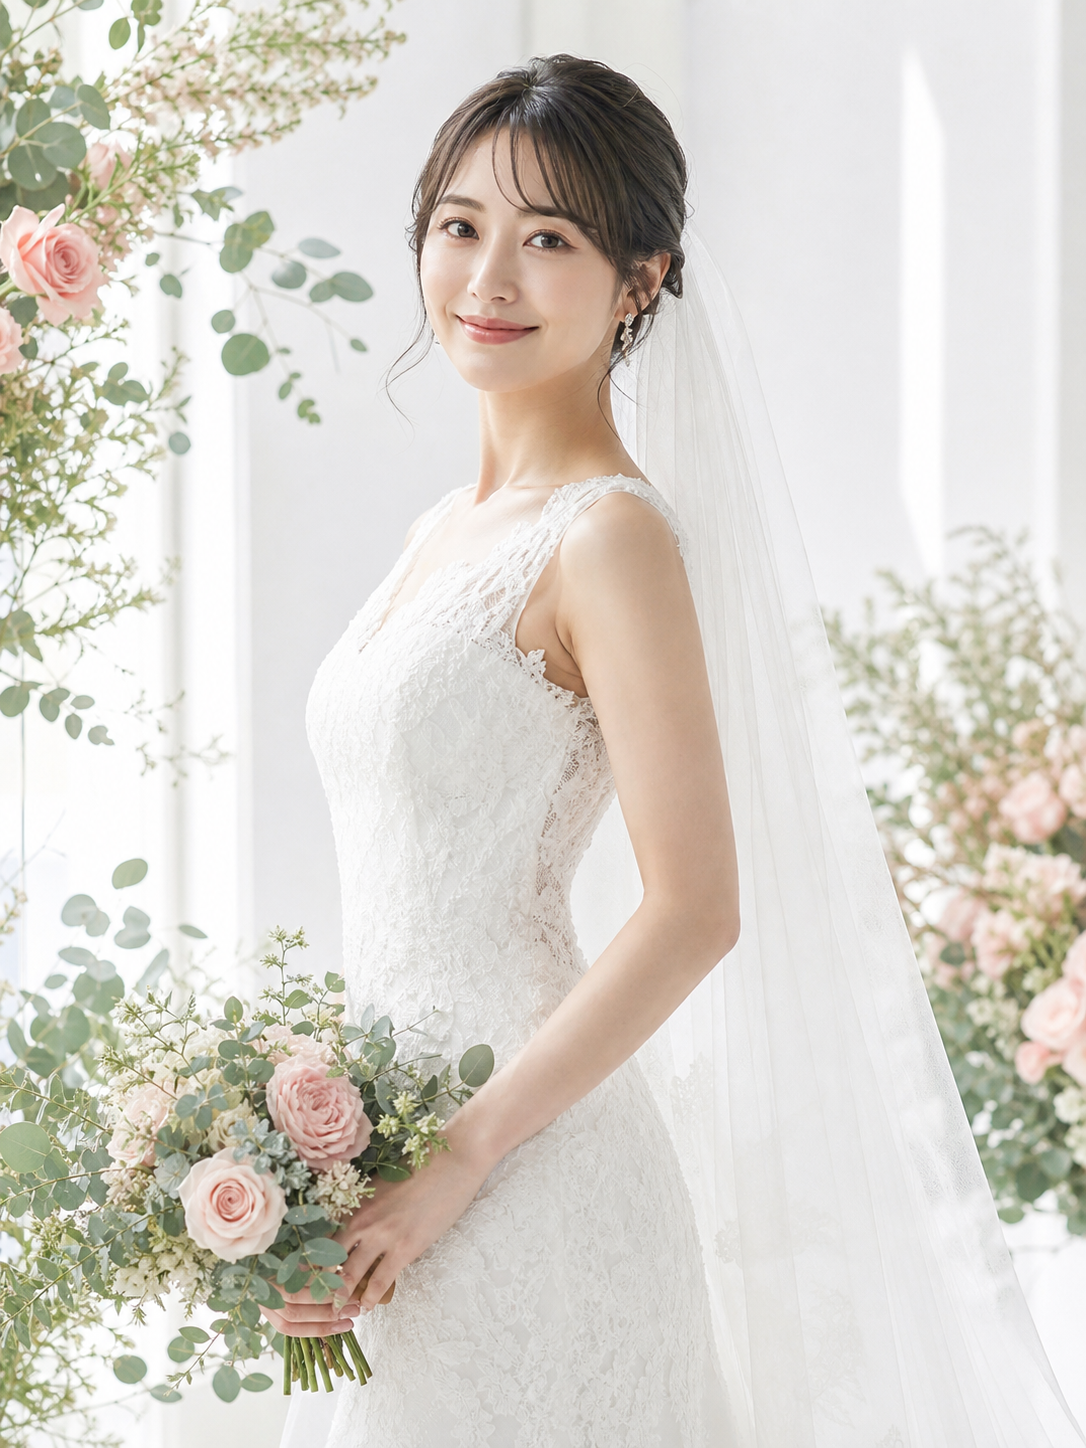
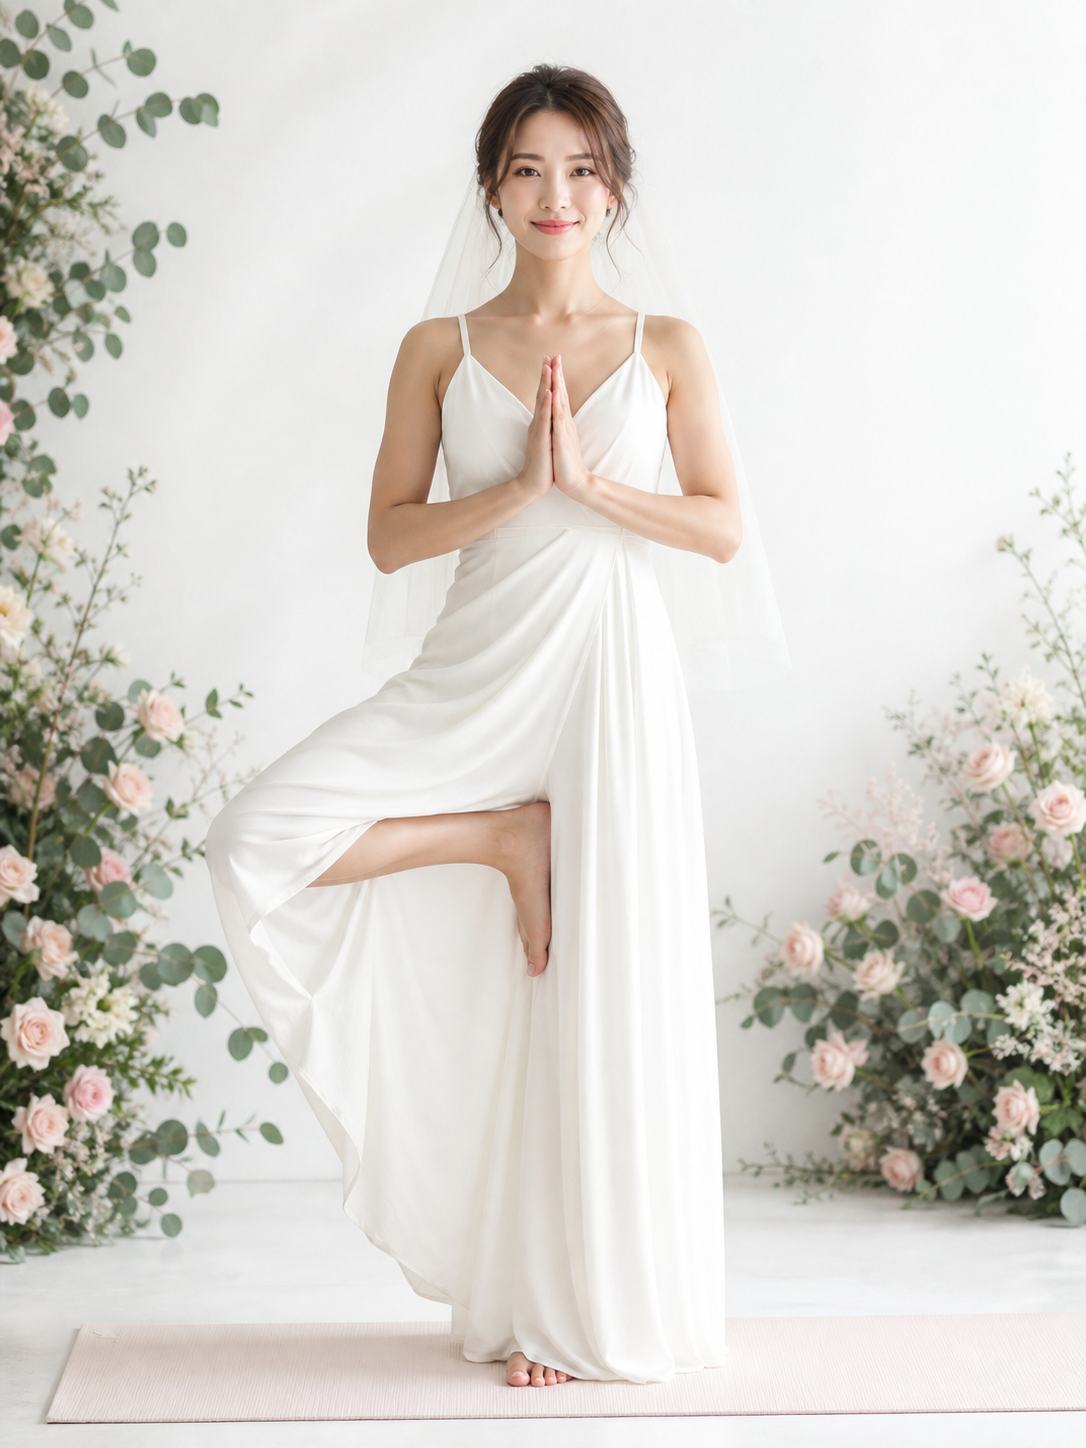
ヒーロー画像をヨガ強化：立木のポーズ＋合掌の花嫁に再生成（?v=17統一）

diff --git a/bridal-app.js b/bridal-app.js
@@ -3,10 +3,10 @@
 // 問診 → プロファイル → 30日プラン生成 → カレンダー → 日別詳細
 // ===================================================================
 import { QUESTIONS, buildProfile, planTitle, messageFor, foodFor, SLEEP_CARE,
-         DISCLAIMER, PREGNANCY_NOTICE, SAFETY_NOTE, DX_LABEL } from './bridal-data.js?v=16';
-import { build30Day, PHASE_INFO, prescriptionFor } from './bridal-program.js?v=16';
-import { AREA_LABEL } from './bridal-engine.js?v=16';
-import { EVIDENCE } from './evidence-map.js?v=16';
+         DISCLAIMER, PREGNANCY_NOTICE, SAFETY_NOTE, DX_LABEL } from './bridal-data.js?v=17';
+import { build30Day, PHASE_INFO, prescriptionFor } from './bridal-program.js?v=17';
+import { AREA_LABEL } from './bridal-engine.js?v=17';
+import { EVIDENCE } from './evidence-map.js?v=17';
 
 const $ = s => document.querySelector(s);
 const PROGRESS_KEY = 'memoro-bridal-progress-v1';
@@ -183,7 +183,7 @@ function renderPlan(profile, days, pregnant){
   $('#bm-result-body').innerHTML = `
     <section class="result-hero">
       <div class="rh-visual">
-        <img src="assets/result-visual.png?v=16" alt="" onerror="this.closest('.rh-visual').classList.add('no-img')">
+        <img src="assets/result-visual.png?v=17" alt="" onerror="this.closest('.rh-visual').classList.add('no-img')">
         <span class="rh-script">your yoga care</span>
       </div>
       <div class="rh-body">

diff --git a/index.html b/index.html
@@ -7,10 +7,10 @@
 <link rel="preconnect" href="https://fonts.googleapis.com">
 <link rel="preconnect" href="https://fonts.gstatic.com" crossorigin>
 <link href="https://fonts.googleapis.com/css2?family=Noto+Sans+JP:wght@300;400;500;600;700&family=Shippori+Mincho:wght@400;500;600;700;800&family=Noto+Serif+JP:wght@400;500;600;700&family=Zen+Kaku+Gothic+New:wght@400;500;700&family=Zen+Kurenaido&family=Parisienne&family=Cormorant+Garamond:ital,wght@0,400;0,500;0,600;1,400;1,500&family=Inter:wght@300;400;500;600&display=swap" rel="stylesheet">
-<link rel="stylesheet" href="style.css?v=16" />
-<link rel="stylesheet" href="redesign.css?v=16" />
-<link rel="stylesheet" href="pc.css?v=16" />
-<link rel="stylesheet" href="bridal.css?v=16" />
+<link rel="stylesheet" href="style.css?v=17" />
+<link rel="stylesheet" href="redesign.css?v=17" />
+<link rel="stylesheet" href="pc.css?v=17" />
+<link rel="stylesheet" href="bridal.css?v=17" />
 </head>
 <body class="lx">
 
@@ -117,6 +117,6 @@
 
 <div id="bm-loading" class="pc-loading" hidden><div class="pc-spin"></div><span id="bm-loading-text">プランを作成しています…</span></div>
 
-<script type="module" src="bridal-app.js?v=16"></script>
+<script type="module" src="bridal-app.js?v=17"></script>
 </body>
 </html>

diff --git a/redesign.css b/redesign.css
@@ -97,7 +97,7 @@ body.lx .petal-bg{ display:none !important; }
 /* ---------- ヒーロー（kogao統一・分離型：写真上＋クリームキャッチ） ---------- */
 .lx-hero{ position:relative; margin-bottom:6px; }
 .lx-hero-photo{ position:relative; height:54vh; min-height:380px; max-height:580px; overflow:hidden; }
-.lx-hero-bg{ position:absolute; inset:0; background:url('assets/hero-bride.png?v=16') center 18%/cover no-repeat; animation:lx-kenburns 22s ease-out infinite alternate; }
+.lx-hero-bg{ position:absolute; inset:0; background:url('assets/hero-bride.png?v=17') center 18%/cover no-repeat; animation:lx-kenburns 22s ease-out infinite alternate; }
 @keyframes lx-kenburns{ from{ transform:scale(1.03); } to{ transform:scale(1.14); } }
 .lx-hero-photo::after{ content:''; position:absolute; left:0; right:0; bottom:0; height:130px; background:linear-gradient(to bottom,rgba(255,253,248,0),var(--lx-cream-hero)); }
 .lx-hero-logo{ position:absolute; top:24px; left:0; right:0; z-index:2; text-align:center; font-family:var(--lx-serif); font-size:1.2rem; letter-spacing:.34em; text-indent:.34em; color:#fff; text-shadow:0 2px 18px rgba(60,45,30,.55); }

diff --git a/bridal-program.js b/bridal-program.js
@@ -5,8 +5,8 @@
 // Phase 3 (Day21-30) しあげる（仕上げ＋当日コンディション調整）
 // Day 7,14,21,28 = リセット日（ケアのみ） / Day27-30 = テーパー(追い込み減)
 // ===================================================================
-import { buildBridalPool, buildFlowPools } from './bridal-engine.js?v=16';
-import { evidenceScore } from './evidence-map.js?v=16';
+import { buildBridalPool, buildFlowPools } from './bridal-engine.js?v=17';
+import { evidenceScore } from './evidence-map.js?v=17';
 
 // ポーズの「基本形」名（(くびれ)等の部位サフィックスを除いた核）。同じ基本ポーズが同日に並ぶ重複感を防ぐ
 function baseName(ex){

diff --git a/bridal-engine.js b/bridal-engine.js
@@ -6,9 +6,9 @@
 import { DB_PERSONAL } from './db-personal.js';
 import { DB_PILATES } from './db-pilates.js';
 import { DB_SEITAI } from './db-seitai.js';
-import { DB_YOGA } from './db-yoga.js?v=16';
-import { DB_YOGA_BRIDAL } from './db-yoga-bridal.js?v=16';
-import { evidenceScore } from './evidence-map.js?v=16';
+import { DB_YOGA } from './db-yoga.js?v=17';
+import { DB_YOGA_BRIDAL } from './db-yoga-bridal.js?v=17';
+import { evidenceScore } from './evidence-map.js?v=17';
 
 // ヨガ主軸: ヨガ(花嫁向け拡充→標準の順)を先頭に置き、同条件ならヨガが優先採用される。
 // personal/pilates/seitai は、ヨガで埋まらない部位の「補完」に回る。

diff --git a/pc.css b/pc.css
@@ -2,7 +2,7 @@
 
 /* ヒーロー画像（骨格診断用） */
 body.lx .lx-hero-bg{
-  background-image:url('assets/hero-bride.png?v=16') !important;
+  background-image:url('assets/hero-bride.png?v=17') !important;
   background-position:center 18%; background-size:cover; background-repeat:no-repeat;
 }
 /* タイプ別ドレス画像 */
